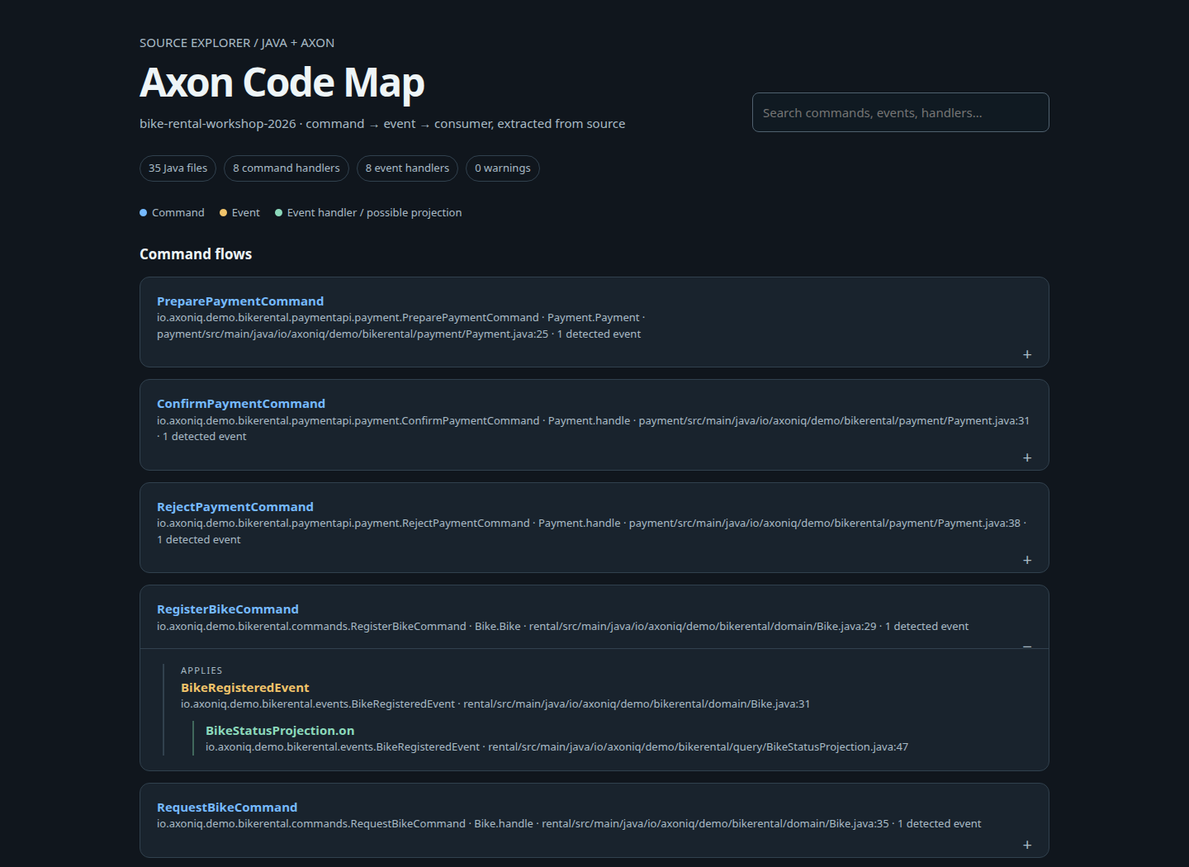
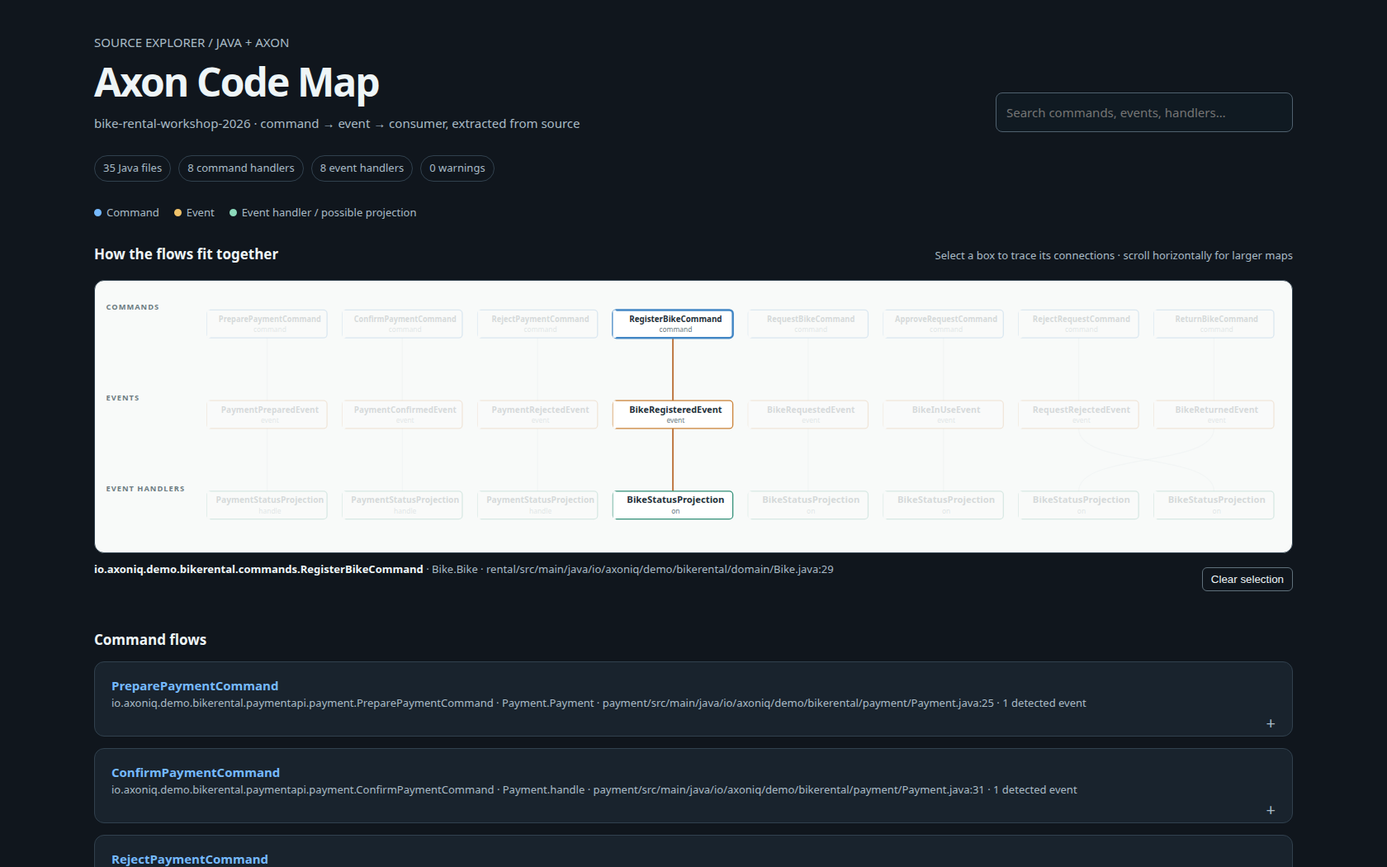
Add interactive layered Axon flow graph

diff --git a/examples/bike-rental-workshop.html b/examples/bike-rental-workshop.html
@@ -1,7 +1,9 @@
 <!doctype html>
 <html lang="en"><head><meta charset="utf-8"><meta name="viewport" content="width=device-width, initial-scale=1"><title>Axon Code Map</title><style>
-:root{color-scheme:dark;--bg:#10161d;--panel:#19232d;--border:#31414e;--muted:#a9bbc6;--command:#76baff;--event:#f0c36a;--handler:#8cd9bb}*{box-sizing:border-box}body{margin:0;background:var(--bg);color:#eef5f7;font:15px/1.5 system-ui,sans-serif}main{max-width:1150px;margin:auto;padding:40px 24px}header{display:flex;align-items:end;justify-content:space-between;gap:24px;flex-wrap:wrap}h1{font-size:clamp(30px,5vw,48px);letter-spacing:-.04em;margin:0}h2{font-size:17px;margin:28px 0 12px}.intro,.muted{color:var(--muted)}.intro{margin:3px 0 0}input{width:min(100%,360px);border:1px solid #50616f;border-radius:8px;padding:12px;background:#101a22;color:white;font:inherit}input:focus{outline:2px solid var(--command)}.stats{display:flex;gap:9px;flex-wrap:wrap;margin:28px 0}.pill{padding:5px 10px;border:1px solid var(--border);border-radius:20px;color:var(--muted);font-size:13px}.legend{display:flex;gap:18px;flex-wrap:wrap;font-size:13px;color:var(--muted)}.dot{display:inline-block;width:9px;height:9px;border-radius:50%;margin-right:6px}.flow{margin:14px 0;border:1px solid var(--border);background:var(--panel);border-radius:12px;overflow:hidden}.flow>summary{cursor:pointer;padding:17px 20px;list-style:none}.flow>summary::-webkit-details-marker{display:none}.flow>summary:after{content:'+';float:right;color:var(--muted);font-size:20px}.flow[open]>summary:after{content:'−'}.name{font-weight:700;overflow-wrap:anywhere}.command{color:var(--command)}.event{color:var(--event)}.handler{color:var(--handler)}.sub{font-size:13px;color:var(--muted);overflow-wrap:anywhere}.body{border-top:1px solid var(--border);padding:18px 20px}.step{border-left:2px solid var(--border);margin-left:7px;padding:0 0 19px 20px}.step:last-child{padding-bottom:0}.tag{font-size:11px;text-transform:uppercase;letter-spacing:.12em;color:var(--muted)}.consumer{margin:10px 0 0 14px;padding-left:14px;border-left:2px solid #41685c}.empty{color:var(--muted);padding:22px 0}.warning{background:#302919;border:1px solid #6b5931;border-radius:8px;padding:12px 16px;margin-top:22px}.warning summary{cursor:pointer}code{font-size:12px}.unlinked{margin-top:25px}footer{border-top:1px solid var(--border);margin-top:38px;padding-top:18px;color:var(--muted);font-size:13px}
-</style></head><body><main><header><div><div class="muted">SOURCE EXPLORER / JAVA + AXON</div><h1>Axon Code Map</h1><p class="intro" id="intro"></p></div><input id="search" type="search" placeholder="Search commands, events, handlers…" aria-label="Search map"></header><div id="stats" class="stats"></div><div class="legend"><span><i class="dot" style="background:var(--command)"></i>Command</span><span><i class="dot" style="background:var(--event)"></i>Event</span><span><i class="dot" style="background:var(--handler)"></i>Event handler / possible projection</span></div><section><h2>Command flows</h2><div id="flows"></div></section><section class="unlinked"><h2>All event handlers</h2><p class="muted">Includes consumers not linked to a detected command. Not every event handler is a projection.</p><div id="handlers"></div></section><div id="warnings"></div><footer>Static source analysis, not a runtime trace. Events may be conditional; indirect or dynamic dispatch can be missing. Paths and line numbers point to your local source.</footer></main><script>
+:root{color-scheme:dark;--bg:#10161d;--panel:#19232d;--border:#31414e;--muted:#a9bbc6;--command:#76baff;--event:#f0c36a;--handler:#8cd9bb}*{box-sizing:border-box}body{margin:0;background:var(--bg);color:#eef5f7;font:15px/1.5 system-ui,sans-serif}main{max-width:1500px;margin:auto;padding:40px 24px}header{display:flex;align-items:end;justify-content:space-between;gap:24px;flex-wrap:wrap}h1{font-size:clamp(30px,5vw,48px);letter-spacing:-.04em;margin:0}h2{font-size:17px;margin:28px 0 12px}.intro,.muted{color:var(--muted)}.intro{margin:3px 0 0}input{width:min(100%,360px);border:1px solid #50616f;border-radius:8px;padding:12px;background:#101a22;color:white;font:inherit}input:focus{outline:2px solid var(--command)}.stats{display:flex;gap:9px;flex-wrap:wrap;margin:28px 0}.pill{padding:5px 10px;border:1px solid var(--border);border-radius:20px;color:var(--muted);font-size:13px}.legend{display:flex;gap:18px;flex-wrap:wrap;font-size:13px;color:var(--muted)}.dot{display:inline-block;width:9px;height:9px;border-radius:50%;margin-right:6px}.flow{margin:14px 0;border:1px solid var(--border);background:var(--panel);border-radius:12px;overflow:hidden}.flow>summary{cursor:pointer;padding:17px 20px;list-style:none}.flow>summary::-webkit-details-marker{display:none}.flow>summary:after{content:'+';float:right;color:var(--muted);font-size:20px}.flow[open]>summary:after{content:'−'}.name{font-weight:700;overflow-wrap:anywhere}.command{color:var(--command)}.event{color:var(--event)}.handler{color:var(--handler)}.sub{font-size:13px;color:var(--muted);overflow-wrap:anywhere}.body{border-top:1px solid var(--border);padding:18px 20px}.step{border-left:2px solid var(--border);margin-left:7px;padding:0 0 19px 20px}.step:last-child{padding-bottom:0}.tag{font-size:11px;text-transform:uppercase;letter-spacing:.12em;color:var(--muted)}.consumer{margin:10px 0 0 14px;padding-left:14px;border-left:2px solid #41685c}.empty{color:var(--muted);padding:22px 0}.warning{background:#302919;border:1px solid #6b5931;border-radius:8px;padding:12px 16px;margin-top:22px}.warning summary{cursor:pointer}code{font-size:12px}.unlinked{margin-top:25px}footer{border-top:1px solid var(--border);margin-top:38px;padding-top:18px;color:var(--muted);font-size:13px}
+
+.graph-heading{display:flex;align-items:baseline;justify-content:space-between;gap:12px;flex-wrap:wrap}.graph-heading h2{margin-bottom:4px}.graph-wrap{overflow:auto;border:1px solid var(--border);border-radius:12px;background:#f8faf9;margin-top:14px}.graph-wrap svg{display:block;width:100%;min-width:1000px;height:auto}.graph-note{color:var(--muted);font-size:13px}.graph-info{min-height:44px;margin:10px 0;color:var(--muted);font-size:13px}.graph-info strong{color:#eef5f7}.graph-reset{background:transparent;border:1px solid #60717c;border-radius:6px;padding:6px 10px;color:#eef5f7;cursor:pointer}.graph-node{cursor:pointer}.graph-node rect{fill:#fff;stroke-width:1.5}.graph-node text{fill:#24313a;font:600 12px system-ui,sans-serif;pointer-events:none}.graph-node .node-sub{fill:#687a81;font:10px system-ui,sans-serif}.graph-node:focus{outline:none}.graph-node:focus rect,.graph-node.selected rect{stroke-width:3}.graph-node.dim{opacity:.16}.graph-edge{fill:none;stroke:#9cafb7;stroke-width:1.5;opacity:.5}.graph-edge.active{stroke:#bc733b;stroke-width:2.4;opacity:.95}.graph-edge.dim{opacity:.06}.graph-lane{fill:#6c7c81;font:600 11px system-ui,sans-serif;letter-spacing:.11em;text-transform:uppercase}.graph-empty{padding:30px;color:#42555e}.graph-caption{display:flex;justify-content:space-between;gap:15px;align-items:center;flex-wrap:wrap}
+</style></head><body><main><header><div><div class="muted">SOURCE EXPLORER / JAVA + AXON</div><h1>Axon Code Map</h1><p class="intro" id="intro"></p></div><input id="search" type="search" placeholder="Search commands, events, handlers…" aria-label="Search map"></header><div id="stats" class="stats"></div><div class="legend"><span><i class="dot" style="background:var(--command)"></i>Command</span><span><i class="dot" style="background:var(--event)"></i>Event</span><span><i class="dot" style="background:var(--handler)"></i>Event handler / possible projection</span></div><section aria-labelledby="graph-title"><div class="graph-heading"><h2 id="graph-title">How the flows fit together</h2><span class="graph-note">Select a box to trace its connections · scroll horizontally for larger maps</span></div><div class="graph-wrap" id="graph" aria-label="Interactive command, event and consumer graph"></div><div class="graph-caption"><div class="graph-info" id="graph-info" aria-live="polite">Select a node to see its connected flow.</div><button class="graph-reset" id="graph-reset" type="button" hidden>Clear selection</button></div></section><section><h2>Command flows</h2><div id="flows"></div></section><section class="unlinked"><h2>All event handlers</h2><p class="muted">Includes consumers not linked to a detected command. Not every event handler is a projection.</p><div id="handlers"></div></section><div id="warnings"></div><footer>Static source analysis, not a runtime trace. Events may be conditional; indirect or dynamic dispatch can be missing. Paths and line numbers point to your local source.</footer></main><script>
 const data = {"commands": [{"type": "io.axoniq.demo.bikerental.paymentapi.payment.PreparePaymentCommand", "owner": "Payment", "method": "Payment", "file": "payment/src/main/java/io/axoniq/demo/bikerental/payment/Payment.java", "line": 25, "events": [{"type": "io.axoniq.demo.bikerental.paymentapi.payment.PaymentPreparedEvent", "file": "payment/src/main/java/io/axoniq/demo/bikerental/payment/Payment.java", "line": 28}]}, {"type": "io.axoniq.demo.bikerental.paymentapi.payment.ConfirmPaymentCommand", "owner": "Payment", "method": "handle", "file": "payment/src/main/java/io/axoniq/demo/bikerental/payment/Payment.java", "line": 31, "events": [{"type": "io.axoniq.demo.bikerental.paymentapi.payment.PaymentConfirmedEvent", "file": "payment/src/main/java/io/axoniq/demo/bikerental/payment/Payment.java", "line": 34}]}, {"type": "io.axoniq.demo.bikerental.paymentapi.payment.RejectPaymentCommand", "owner": "Payment", "method": "handle", "file": "payment/src/main/java/io/axoniq/demo/bikerental/payment/Payment.java", "line": 38, "events": [{"type": "io.axoniq.demo.bikerental.paymentapi.payment.PaymentRejectedEvent", "file": "payment/src/main/java/io/axoniq/demo/bikerental/payment/Payment.java", "line": 41}]}, {"type": "io.axoniq.demo.bikerental.commands.RegisterBikeCommand", "owner": "Bike", "method": "Bike", "file": "rental/src/main/java/io/axoniq/demo/bikerental/domain/Bike.java", "line": 29, "events": [{"type": "io.axoniq.demo.bikerental.events.BikeRegisteredEvent", "file": "rental/src/main/java/io/axoniq/demo/bikerental/domain/Bike.java", "line": 31}]}, {"type": "io.axoniq.demo.bikerental.commands.RequestBikeCommand", "owner": "Bike", "method": "handle", "file": "rental/src/main/java/io/axoniq/demo/bikerental/domain/Bike.java", "line": 35, "events": [{"type": "io.axoniq.demo.bikerental.events.BikeRequestedEvent", "file": "rental/src/main/java/io/axoniq/demo/bikerental/domain/Bike.java", "line": 40}]}, {"type": "io.axoniq.demo.bikerental.commands.ApproveRequestCommand", "owner": "Bike", "method": "handle", "file": "rental/src/main/java/io/axoniq/demo/bikerental/domain/Bike.java", "line": 46, "events": [{"type": "io.axoniq.demo.bikerental.events.BikeInUseEvent", "file": "rental/src/main/java/io/axoniq/demo/bikerental/domain/Bike.java", "line": 52}]}, {"type": "io.axoniq.demo.bikerental.commands.RejectRequestCommand", "owner": "Bike", "method": "handle", "file": "rental/src/main/java/io/axoniq/demo/bikerental/domain/Bike.java", "line": 55, "events": [{"type": "io.axoniq.demo.bikerental.events.RequestRejectedEvent", "file": "rental/src/main/java/io/axoniq/demo/bikerental/domain/Bike.java", "line": 61}]}, {"type": "io.axoniq.demo.bikerental.commands.ReturnBikeCommand", "owner": "Bike", "method": "handle", "file": "rental/src/main/java/io/axoniq/demo/bikerental/domain/Bike.java", "line": 65, "events": [{"type": "io.axoniq.demo.bikerental.events.BikeReturnedEvent", "file": "rental/src/main/java/io/axoniq/demo/bikerental/domain/Bike.java", "line": 70}]}], "consumers": [{"type": "io.axoniq.demo.bikerental.paymentapi.payment.PaymentPreparedEvent", "owner": "PaymentStatusProjection", "method": "handle", "file": "payment/src/main/java/io/axoniq/demo/bikerental/payment/status/PaymentStatusProjection.java", "line": 51, "kind": "event handler"}, {"type": "io.axoniq.demo.bikerental.paymentapi.payment.PaymentConfirmedEvent", "owner": "PaymentStatusProjection", "method": "handle", "file": "payment/src/main/java/io/axoniq/demo/bikerental/payment/status/PaymentStatusProjection.java", "line": 57, "kind": "event handler"}, {"type": "io.axoniq.demo.bikerental.paymentapi.payment.PaymentRejectedEvent", "owner": "PaymentStatusProjection", "method": "handle", "file": "payment/src/main/java/io/axoniq/demo/bikerental/payment/status/PaymentStatusProjection.java", "line": 62, "kind": "event handler"}, {"type": "io.axoniq.demo.bikerental.events.BikeRegisteredEvent", "owner": "BikeStatusProjection", "method": "on", "file": "rental/src/main/java/io/axoniq/demo/bikerental/query/BikeStatusProjection.java", "line": 47, "kind": "event handler"}, {"type": "io.axoniq.demo.bikerental.events.BikeRequestedEvent", "owner": "BikeStatusProjection", "method": "on", "file": "rental/src/main/java/io/axoniq/demo/bikerental/query/BikeStatusProjection.java", "line": 54, "kind": "event handler"}, {"type": "io.axoniq.demo.bikerental.events.BikeInUseEvent", "owner": "BikeStatusProjection", "method": "on", "file": "rental/src/main/java/io/axoniq/demo/bikerental/query/BikeStatusProjection.java", "line": 67, "kind": "event handler"}, {"type": "io.axoniq.demo.bikerental.events.BikeReturnedEvent", "owner": "BikeStatusProjection", "method": "on", "file": "rental/src/main/java/io/axoniq/demo/bikerental/query/BikeStatusProjection.java", "line": 80, "kind": "event handler"}, {"type": "io.axoniq.demo.bikerental.events.RequestRejectedEvent", "owner": "BikeStatusProjection", "method": "on", "file": "rental/src/main/java/io/axoniq/demo/bikerental/query/BikeStatusProjection.java", "line": 94, "kind": "event handler"}], "warnings": [], "fileCount": 35, "root": "bike-rental-workshop-2026"};
 const $ = s => document.querySelector(s);
 const el = (tag, cls, value) => {const n=document.createElement(tag); if(cls)n.className=cls; if(value!==undefined)n.textContent=value; return n};
@@ -20,6 +22,48 @@ function render(){
  if(!count)flows.append(el('div','empty',q?'No matching command flows.':'No command handlers found.'));
  let hc=0;for(const h of data.consumers){if(!JSON.stringify(h).toLowerCase().includes(q))continue;hc++;handlers.append(handlerView(h))}if(!hc)handlers.append(el('div','empty',q?'No matching event handlers.':'No event handlers found.'));
 }
-$('#search').addEventListener('input',render);render();
+// Nodes are source-backed handlers and event types. Edges are only detected applies / matching consumers.
+const graphNodes=[], graphEdges=[]; let selected=null, svg=null;
+const svgEl = (name, attrs={}) => {const n=document.createElementNS('http://www.w3.org/2000/svg',name); for(const [k,v] of Object.entries(attrs)) n.setAttribute(k,String(v)); return n};
+function buildGraph(){
+ const events=new Map(), handlers=new Map();
+ for(const [i,c] of data.commands.entries()){
+  const id='c'+i; graphNodes.push({id,kind:'command',label:short(c.type),full:c.type,detail:`${c.owner}.${c.method} · ${where(c)}`,row:0});
+  for(const e of c.events){if(!events.has(e.type))events.set(e.type,{id:'e'+events.size,kind:'event',label:short(e.type),full:e.type,detail:`Applied at ${where(e)}`,row:1});graphEdges.push({from:id,to:events.get(e.type).id});}
+ }
+ // Include event handlers without detected producers, and preserve each method as a distinct node.
+ for(const [i,h] of data.consumers.entries()){
+  if(!events.has(h.type))events.set(h.type,{id:'e'+events.size,kind:'event',label:short(h.type),full:h.type,detail:'No detected producer required',row:1});
+  const id='h'+i; handlers.set(id,{id,kind:'handler',label:h.owner,full:`${h.owner}.${h.method}`,detail:`${h.type} · ${where(h)}`,row:2});graphEdges.push({from:events.get(h.type).id,to:id});
+ }
+ graphNodes.push(...events.values(),...handlers.values());
+ const holder=$('#graph'); if(!graphNodes.length){holder.append(el('div','graph-empty','No command or event handlers found.'));return}
+ const rows=[0,1,2].map(r=>graphNodes.filter(n=>n.row===r));
+ const max=Math.max(...rows.map(r=>r.length)), width=Math.max(1000,150+max*196), height=390;
+ svg=svgEl('svg',{viewBox:`0 0 ${width} ${height}`,role:'group','aria-label':'Command to event to consumer graph'});holder.append(svg);
+ const labels=['COMMANDS','EVENTS','EVENT HANDLERS'];
+ rows.forEach((row,r)=>{const label=svgEl('text',{x:16,y:42+r*130,class:'graph-lane'});label.textContent=labels[r];svg.append(label);row.forEach((n,i)=>{n.x=150+(i+.5)*(width-165)/row.length;n.y=62+r*130})});
+ const byId=new Map(graphNodes.map(n=>[n.id,n]));
+ for(const edge of graphEdges){const a=byId.get(edge.from),b=byId.get(edge.to);edge.element=svgEl('path',{d:`M ${a.x} ${a.y+20} C ${a.x} ${a.y+76}, ${b.x} ${b.y-76}, ${b.x} ${b.y-20}`,class:'graph-edge'});svg.append(edge.element)}
+ for(const n of graphNodes){const color={command:'#4387c5',event:'#c98035',handler:'#318f77'}[n.kind];const g=svgEl('g',{class:'graph-node',transform:`translate(${n.x-86} ${n.y-20})`,role:'button',tabindex:'0','aria-label':`${n.kind}: ${n.full}. ${n.detail}`,'aria-pressed':'false'});const rect=svgEl('rect',{width:172,height:40,rx:5,stroke:color});const bar=svgEl('rect',{width:5,height:40,rx:2,fill:color,stroke:'none'});const label=svgEl('text',{x:90,y:17,'text-anchor':'middle',textLength:Math.min(n.label.length*7,155),lengthAdjust:'spacingAndGlyphs'});label.textContent=n.label;const sub=svgEl('text',{x:90,y:32,'text-anchor':'middle',class:'node-sub'});sub.textContent=n.kind==='handler'?n.full.split('.').pop():n.kind;const title=svgEl('title');title.textContent=`${n.full} — ${n.detail}`;g.append(rect,bar,label,sub,title);svg.append(g);n.element=g;
+  const activate=()=>{selected=selected===n.id?null:n.id;updateGraph()};g.addEventListener('click',activate);g.addEventListener('keydown',e=>{if(e.key==='Enter'||e.key===' '){e.preventDefault();activate()}});
+ }
+ updateGraph();
+}
+function updateGraph(){
+ if(!svg)return;
+ const q=$('#search').value.trim().toLowerCase();let seeds=new Set();
+ if(selected)seeds.add(selected); else if(q)for(const n of graphNodes)if(`${n.full} ${n.detail}`.toLowerCase().includes(q))seeds.add(n.id);
+ // Include the full connected flow, not unrelated nodes.
+ let connected=new Set(seeds), changed=true;while(changed){changed=false;for(const e of graphEdges)if(connected.has(e.from)||connected.has(e.to)){for(const id of [e.from,e.to])if(!connected.has(id)){connected.add(id);changed=true}}}
+ const filtering=!!selected||!!q;
+ for(const n of graphNodes){n.element.classList.toggle('dim',filtering&&!connected.has(n.id));n.element.classList.toggle('selected',n.id===selected);n.element.setAttribute('aria-pressed',String(n.id===selected))}
+ for(const e of graphEdges){const active=connected.has(e.from)&&connected.has(e.to);e.element.classList.toggle('active',filtering&&active);e.element.classList.toggle('dim',filtering&&!active)}
+ const info=$('#graph-info');info.replaceChildren();const n=graphNodes.find(x=>x.id===selected);
+ if(n){info.append(el('strong','',n.full),document.createTextNode(` · ${n.detail}`))}else info.textContent=q?(seeds.size?`${seeds.size} matching node(s); connected flows highlighted.`:'No matching graph nodes.'):'Select a node to see its connected flow.';
+ $('#graph-reset').hidden=!selected;
+}
+$('#graph-reset').addEventListener('click',()=>{selected=null;updateGraph()});
+$('#search').addEventListener('input',()=>{render(); updateGraph()});render(); buildGraph();
 if(data.warnings.length){const details=el('details','warning');details.append(el('summary','',`${data.warnings.length} analysis warning(s)`));const ul=el('ul');for(const w of data.warnings)ul.append(el('li','',w));details.append(ul);$('#warnings').append(details)}
 </script></body></html>

diff --git a/axon_codemap/page.html b/axon_codemap/page.html
@@ -1,7 +1,9 @@
 <!doctype html>
 <html lang="en"><head><meta charset="utf-8"><meta name="viewport" content="width=device-width, initial-scale=1"><title>Axon Code Map</title><style>
-:root{color-scheme:dark;--bg:#10161d;--panel:#19232d;--border:#31414e;--muted:#a9bbc6;--command:#76baff;--event:#f0c36a;--handler:#8cd9bb}*{box-sizing:border-box}body{margin:0;background:var(--bg);color:#eef5f7;font:15px/1.5 system-ui,sans-serif}main{max-width:1150px;margin:auto;padding:40px 24px}header{display:flex;align-items:end;justify-content:space-between;gap:24px;flex-wrap:wrap}h1{font-size:clamp(30px,5vw,48px);letter-spacing:-.04em;margin:0}h2{font-size:17px;margin:28px 0 12px}.intro,.muted{color:var(--muted)}.intro{margin:3px 0 0}input{width:min(100%,360px);border:1px solid #50616f;border-radius:8px;padding:12px;background:#101a22;color:white;font:inherit}input:focus{outline:2px solid var(--command)}.stats{display:flex;gap:9px;flex-wrap:wrap;margin:28px 0}.pill{padding:5px 10px;border:1px solid var(--border);border-radius:20px;color:var(--muted);font-size:13px}.legend{display:flex;gap:18px;flex-wrap:wrap;font-size:13px;color:var(--muted)}.dot{display:inline-block;width:9px;height:9px;border-radius:50%;margin-right:6px}.flow{margin:14px 0;border:1px solid var(--border);background:var(--panel);border-radius:12px;overflow:hidden}.flow>summary{cursor:pointer;padding:17px 20px;list-style:none}.flow>summary::-webkit-details-marker{display:none}.flow>summary:after{content:'+';float:right;color:var(--muted);font-size:20px}.flow[open]>summary:after{content:'−'}.name{font-weight:700;overflow-wrap:anywhere}.command{color:var(--command)}.event{color:var(--event)}.handler{color:var(--handler)}.sub{font-size:13px;color:var(--muted);overflow-wrap:anywhere}.body{border-top:1px solid var(--border);padding:18px 20px}.step{border-left:2px solid var(--border);margin-left:7px;padding:0 0 19px 20px}.step:last-child{padding-bottom:0}.tag{font-size:11px;text-transform:uppercase;letter-spacing:.12em;color:var(--muted)}.consumer{margin:10px 0 0 14px;padding-left:14px;border-left:2px solid #41685c}.empty{color:var(--muted);padding:22px 0}.warning{background:#302919;border:1px solid #6b5931;border-radius:8px;padding:12px 16px;margin-top:22px}.warning summary{cursor:pointer}code{font-size:12px}.unlinked{margin-top:25px}footer{border-top:1px solid var(--border);margin-top:38px;padding-top:18px;color:var(--muted);font-size:13px}
-</style></head><body><main><header><div><div class="muted">SOURCE EXPLORER / JAVA + AXON</div><h1>Axon Code Map</h1><p class="intro" id="intro"></p></div><input id="search" type="search" placeholder="Search commands, events, handlers…" aria-label="Search map"></header><div id="stats" class="stats"></div><div class="legend"><span><i class="dot" style="background:var(--command)"></i>Command</span><span><i class="dot" style="background:var(--event)"></i>Event</span><span><i class="dot" style="background:var(--handler)"></i>Event handler / possible projection</span></div><section><h2>Command flows</h2><div id="flows"></div></section><section class="unlinked"><h2>All event handlers</h2><p class="muted">Includes consumers not linked to a detected command. Not every event handler is a projection.</p><div id="handlers"></div></section><div id="warnings"></div><footer>Static source analysis, not a runtime trace. Events may be conditional; indirect or dynamic dispatch can be missing. Paths and line numbers point to your local source.</footer></main><script>
+:root{color-scheme:dark;--bg:#10161d;--panel:#19232d;--border:#31414e;--muted:#a9bbc6;--command:#76baff;--event:#f0c36a;--handler:#8cd9bb}*{box-sizing:border-box}body{margin:0;background:var(--bg);color:#eef5f7;font:15px/1.5 system-ui,sans-serif}main{max-width:1500px;margin:auto;padding:40px 24px}header{display:flex;align-items:end;justify-content:space-between;gap:24px;flex-wrap:wrap}h1{font-size:clamp(30px,5vw,48px);letter-spacing:-.04em;margin:0}h2{font-size:17px;margin:28px 0 12px}.intro,.muted{color:var(--muted)}.intro{margin:3px 0 0}input{width:min(100%,360px);border:1px solid #50616f;border-radius:8px;padding:12px;background:#101a22;color:white;font:inherit}input:focus{outline:2px solid var(--command)}.stats{display:flex;gap:9px;flex-wrap:wrap;margin:28px 0}.pill{padding:5px 10px;border:1px solid var(--border);border-radius:20px;color:var(--muted);font-size:13px}.legend{display:flex;gap:18px;flex-wrap:wrap;font-size:13px;color:var(--muted)}.dot{display:inline-block;width:9px;height:9px;border-radius:50%;margin-right:6px}.flow{margin:14px 0;border:1px solid var(--border);background:var(--panel);border-radius:12px;overflow:hidden}.flow>summary{cursor:pointer;padding:17px 20px;list-style:none}.flow>summary::-webkit-details-marker{display:none}.flow>summary:after{content:'+';float:right;color:var(--muted);font-size:20px}.flow[open]>summary:after{content:'−'}.name{font-weight:700;overflow-wrap:anywhere}.command{color:var(--command)}.event{color:var(--event)}.handler{color:var(--handler)}.sub{font-size:13px;color:var(--muted);overflow-wrap:anywhere}.body{border-top:1px solid var(--border);padding:18px 20px}.step{border-left:2px solid var(--border);margin-left:7px;padding:0 0 19px 20px}.step:last-child{padding-bottom:0}.tag{font-size:11px;text-transform:uppercase;letter-spacing:.12em;color:var(--muted)}.consumer{margin:10px 0 0 14px;padding-left:14px;border-left:2px solid #41685c}.empty{color:var(--muted);padding:22px 0}.warning{background:#302919;border:1px solid #6b5931;border-radius:8px;padding:12px 16px;margin-top:22px}.warning summary{cursor:pointer}code{font-size:12px}.unlinked{margin-top:25px}footer{border-top:1px solid var(--border);margin-top:38px;padding-top:18px;color:var(--muted);font-size:13px}
+
+.graph-heading{display:flex;align-items:baseline;justify-content:space-between;gap:12px;flex-wrap:wrap}.graph-heading h2{margin-bottom:4px}.graph-wrap{overflow:auto;border:1px solid var(--border);border-radius:12px;background:#f8faf9;margin-top:14px}.graph-wrap svg{display:block;width:100%;min-width:1000px;height:auto}.graph-note{color:var(--muted);font-size:13px}.graph-info{min-height:44px;margin:10px 0;color:var(--muted);font-size:13px}.graph-info strong{color:#eef5f7}.graph-reset{background:transparent;border:1px solid #60717c;border-radius:6px;padding:6px 10px;color:#eef5f7;cursor:pointer}.graph-node{cursor:pointer}.graph-node rect{fill:#fff;stroke-width:1.5}.graph-node text{fill:#24313a;font:600 12px system-ui,sans-serif;pointer-events:none}.graph-node .node-sub{fill:#687a81;font:10px system-ui,sans-serif}.graph-node:focus{outline:none}.graph-node:focus rect,.graph-node.selected rect{stroke-width:3}.graph-node.dim{opacity:.16}.graph-edge{fill:none;stroke:#9cafb7;stroke-width:1.5;opacity:.5}.graph-edge.active{stroke:#bc733b;stroke-width:2.4;opacity:.95}.graph-edge.dim{opacity:.06}.graph-lane{fill:#6c7c81;font:600 11px system-ui,sans-serif;letter-spacing:.11em;text-transform:uppercase}.graph-empty{padding:30px;color:#42555e}.graph-caption{display:flex;justify-content:space-between;gap:15px;align-items:center;flex-wrap:wrap}
+</style></head><body><main><header><div><div class="muted">SOURCE EXPLORER / JAVA + AXON</div><h1>Axon Code Map</h1><p class="intro" id="intro"></p></div><input id="search" type="search" placeholder="Search commands, events, handlers…" aria-label="Search map"></header><div id="stats" class="stats"></div><div class="legend"><span><i class="dot" style="background:var(--command)"></i>Command</span><span><i class="dot" style="background:var(--event)"></i>Event</span><span><i class="dot" style="background:var(--handler)"></i>Event handler / possible projection</span></div><section aria-labelledby="graph-title"><div class="graph-heading"><h2 id="graph-title">How the flows fit together</h2><span class="graph-note">Select a box to trace its connections · scroll horizontally for larger maps</span></div><div class="graph-wrap" id="graph" aria-label="Interactive command, event and consumer graph"></div><div class="graph-caption"><div class="graph-info" id="graph-info" aria-live="polite">Select a node to see its connected flow.</div><button class="graph-reset" id="graph-reset" type="button" hidden>Clear selection</button></div></section><section><h2>Command flows</h2><div id="flows"></div></section><section class="unlinked"><h2>All event handlers</h2><p class="muted">Includes consumers not linked to a detected command. Not every event handler is a projection.</p><div id="handlers"></div></section><div id="warnings"></div><footer>Static source analysis, not a runtime trace. Events may be conditional; indirect or dynamic dispatch can be missing. Paths and line numbers point to your local source.</footer></main><script>
 const data = /*__DATA__*/;
 const $ = s => document.querySelector(s);
 const el = (tag, cls, value) => {const n=document.createElement(tag); if(cls)n.className=cls; if(value!==undefined)n.textContent=value; return n};
@@ -20,6 +22,48 @@ function render(){
  if(!count)flows.append(el('div','empty',q?'No matching command flows.':'No command handlers found.'));
  let hc=0;for(const h of data.consumers){if(!JSON.stringify(h).toLowerCase().includes(q))continue;hc++;handlers.append(handlerView(h))}if(!hc)handlers.append(el('div','empty',q?'No matching event handlers.':'No event handlers found.'));
 }
-$('#search').addEventListener('input',render);render();
+// Nodes are source-backed handlers and event types. Edges are only detected applies / matching consumers.
+const graphNodes=[], graphEdges=[]; let selected=null, svg=null;
+const svgEl = (name, attrs={}) => {const n=document.createElementNS('http://www.w3.org/2000/svg',name); for(const [k,v] of Object.entries(attrs)) n.setAttribute(k,String(v)); return n};
+function buildGraph(){
+ const events=new Map(), handlers=new Map();
+ for(const [i,c] of data.commands.entries()){
+  const id='c'+i; graphNodes.push({id,kind:'command',label:short(c.type),full:c.type,detail:`${c.owner}.${c.method} · ${where(c)}`,row:0});
+  for(const e of c.events){if(!events.has(e.type))events.set(e.type,{id:'e'+events.size,kind:'event',label:short(e.type),full:e.type,detail:`Applied at ${where(e)}`,row:1});graphEdges.push({from:id,to:events.get(e.type).id});}
+ }
+ // Include event handlers without detected producers, and preserve each method as a distinct node.
+ for(const [i,h] of data.consumers.entries()){
+  if(!events.has(h.type))events.set(h.type,{id:'e'+events.size,kind:'event',label:short(h.type),full:h.type,detail:'No detected producer required',row:1});
+  const id='h'+i; handlers.set(id,{id,kind:'handler',label:h.owner,full:`${h.owner}.${h.method}`,detail:`${h.type} · ${where(h)}`,row:2});graphEdges.push({from:events.get(h.type).id,to:id});
+ }
+ graphNodes.push(...events.values(),...handlers.values());
+ const holder=$('#graph'); if(!graphNodes.length){holder.append(el('div','graph-empty','No command or event handlers found.'));return}
+ const rows=[0,1,2].map(r=>graphNodes.filter(n=>n.row===r));
+ const max=Math.max(...rows.map(r=>r.length)), width=Math.max(1000,150+max*196), height=390;
+ svg=svgEl('svg',{viewBox:`0 0 ${width} ${height}`,role:'group','aria-label':'Command to event to consumer graph'});holder.append(svg);
+ const labels=['COMMANDS','EVENTS','EVENT HANDLERS'];
+ rows.forEach((row,r)=>{const label=svgEl('text',{x:16,y:42+r*130,class:'graph-lane'});label.textContent=labels[r];svg.append(label);row.forEach((n,i)=>{n.x=150+(i+.5)*(width-165)/row.length;n.y=62+r*130})});
+ const byId=new Map(graphNodes.map(n=>[n.id,n]));
+ for(const edge of graphEdges){const a=byId.get(edge.from),b=byId.get(edge.to);edge.element=svgEl('path',{d:`M ${a.x} ${a.y+20} C ${a.x} ${a.y+76}, ${b.x} ${b.y-76}, ${b.x} ${b.y-20}`,class:'graph-edge'});svg.append(edge.element)}
+ for(const n of graphNodes){const color={command:'#4387c5',event:'#c98035',handler:'#318f77'}[n.kind];const g=svgEl('g',{class:'graph-node',transform:`translate(${n.x-86} ${n.y-20})`,role:'button',tabindex:'0','aria-label':`${n.kind}: ${n.full}. ${n.detail}`,'aria-pressed':'false'});const rect=svgEl('rect',{width:172,height:40,rx:5,stroke:color});const bar=svgEl('rect',{width:5,height:40,rx:2,fill:color,stroke:'none'});const label=svgEl('text',{x:90,y:17,'text-anchor':'middle',textLength:Math.min(n.label.length*7,155),lengthAdjust:'spacingAndGlyphs'});label.textContent=n.label;const sub=svgEl('text',{x:90,y:32,'text-anchor':'middle',class:'node-sub'});sub.textContent=n.kind==='handler'?n.full.split('.').pop():n.kind;const title=svgEl('title');title.textContent=`${n.full} — ${n.detail}`;g.append(rect,bar,label,sub,title);svg.append(g);n.element=g;
+  const activate=()=>{selected=selected===n.id?null:n.id;updateGraph()};g.addEventListener('click',activate);g.addEventListener('keydown',e=>{if(e.key==='Enter'||e.key===' '){e.preventDefault();activate()}});
+ }
+ updateGraph();
+}
+function updateGraph(){
+ if(!svg)return;
+ const q=$('#search').value.trim().toLowerCase();let seeds=new Set();
+ if(selected)seeds.add(selected); else if(q)for(const n of graphNodes)if(`${n.full} ${n.detail}`.toLowerCase().includes(q))seeds.add(n.id);
+ // Include the full connected flow, not unrelated nodes.
+ let connected=new Set(seeds), changed=true;while(changed){changed=false;for(const e of graphEdges)if(connected.has(e.from)||connected.has(e.to)){for(const id of [e.from,e.to])if(!connected.has(id)){connected.add(id);changed=true}}}
+ const filtering=!!selected||!!q;
+ for(const n of graphNodes){n.element.classList.toggle('dim',filtering&&!connected.has(n.id));n.element.classList.toggle('selected',n.id===selected);n.element.setAttribute('aria-pressed',String(n.id===selected))}
+ for(const e of graphEdges){const active=connected.has(e.from)&&connected.has(e.to);e.element.classList.toggle('active',filtering&&active);e.element.classList.toggle('dim',filtering&&!active)}
+ const info=$('#graph-info');info.replaceChildren();const n=graphNodes.find(x=>x.id===selected);
+ if(n){info.append(el('strong','',n.full),document.createTextNode(` · ${n.detail}`))}else info.textContent=q?(seeds.size?`${seeds.size} matching node(s); connected flows highlighted.`:'No matching graph nodes.'):'Select a node to see its connected flow.';
+ $('#graph-reset').hidden=!selected;
+}
+$('#graph-reset').addEventListener('click',()=>{selected=null;updateGraph()});
+$('#search').addEventListener('input',()=>{render(); updateGraph()});render(); buildGraph();
 if(data.warnings.length){const details=el('details','warning');details.append(el('summary','',`${data.warnings.length} analysis warning(s)`));const ul=el('ul');for(const w of data.warnings)ul.append(el('li','',w));details.append(ul);$('#warnings').append(details)}
 </script></body></html>

diff --git a/README.md b/README.md
@@ -1,6 +1,6 @@
 # Axon Code Map
 
-Generate a single self-contained, searchable HTML map of Java Axon command handlers → events → event handlers. Inspired by [codemap](https://github.com/peterretief/codemap); this is an independent implementation, not a fork. Source stays on your machine and the resulting HTML needs no server, Java build, Java runtime, or external assets.
+Generate a single self-contained, searchable HTML map of Java Axon command handlers → events → event handlers. A layered graph shows how the flows fit together, with a detailed source-backed list below. Inspired by [codemap](https://github.com/peterretief/codemap); this is an independent implementation, not a fork. Source stays on your machine and the resulting HTML needs no server, Java build, Java runtime, or external assets.
 
 ## Example: AxonIQ bike rental workshop
 
@@ -27,7 +27,7 @@ pip install .
 axon-codemap --root /path/to/java-project -o code-map.html
 ```
 
-Open `code-map.html` in a browser. `--include-tests` includes test directories; otherwise `test` and `tests` directories are omitted, along with common build and vendor directories. Multi-module trees are scanned recursively. Search matches fully-qualified types, handler names and source paths. Expand a command to inspect its detected events and consumers. All consumers are also listed separately, including those without a detected producer.
+Open `code-map.html` in a browser. `--include-tests` includes test directories; otherwise `test` and `tests` directories are omitted, along with common build and vendor directories. Multi-module trees are scanned recursively. Search matches fully-qualified types, handler names and source paths, highlighting connected graph flows. Select a graph node (or focus it and press Enter) to trace its connections; clear the selection to return to the full map. The graph scrolls horizontally on narrow screens. Expand a command in the list to inspect its detected events and consumers. All consumers are also listed separately, including those without a detected producer.
 
 To try the included example:
 
@@ -44,7 +44,7 @@ axon-codemap --root tests/fixtures -o example.html
 
 ## Important limits
 
-This is a static source map, not a runtime execution trace: a shown event might only be emitted conditionally, and consumer execution is not guaranteed. It does **not** follow helper methods, variables passed to `apply`, factory methods, returned events, inheritance, event gateways, sagas, custom/composed annotations, or runtime configuration. Unrecognized apply payloads and syntax errors are reported in the page. Unscanned external types, nested types, wildcard imports, annotation payload overrides, and unusual parameter ordering may not resolve correctly. Check source paths and line numbers when interpreting the map. Do not treat missing links as proof that a relationship cannot happen.
+The graph shows Axon message relationships, not Java package dependencies. This is a static source map, not a runtime execution trace: a shown event might only be emitted conditionally, and consumer execution is not guaranteed. It does **not** follow helper methods, variables passed to `apply`, factory methods, returned events, inheritance, event gateways, sagas, custom/composed annotations, or runtime configuration. Unrecognized apply payloads and syntax errors are reported in the page. Unscanned external types, nested types, wildcard imports, annotation payload overrides, and unusual parameter ordering may not resolve correctly. Check source paths and line numbers when interpreting the map. Do not treat missing links as proof that a relationship cannot happen.
 
 ## Tests
 
